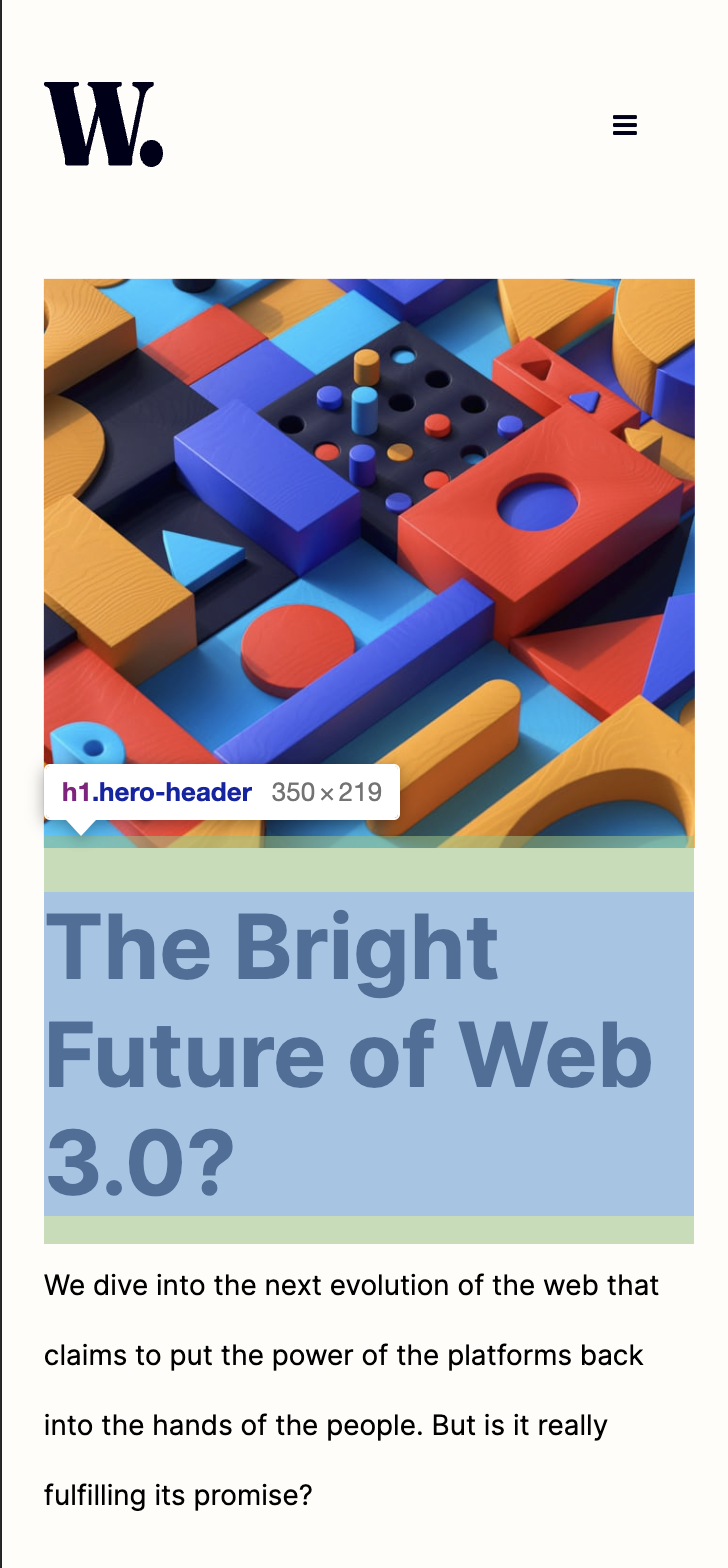
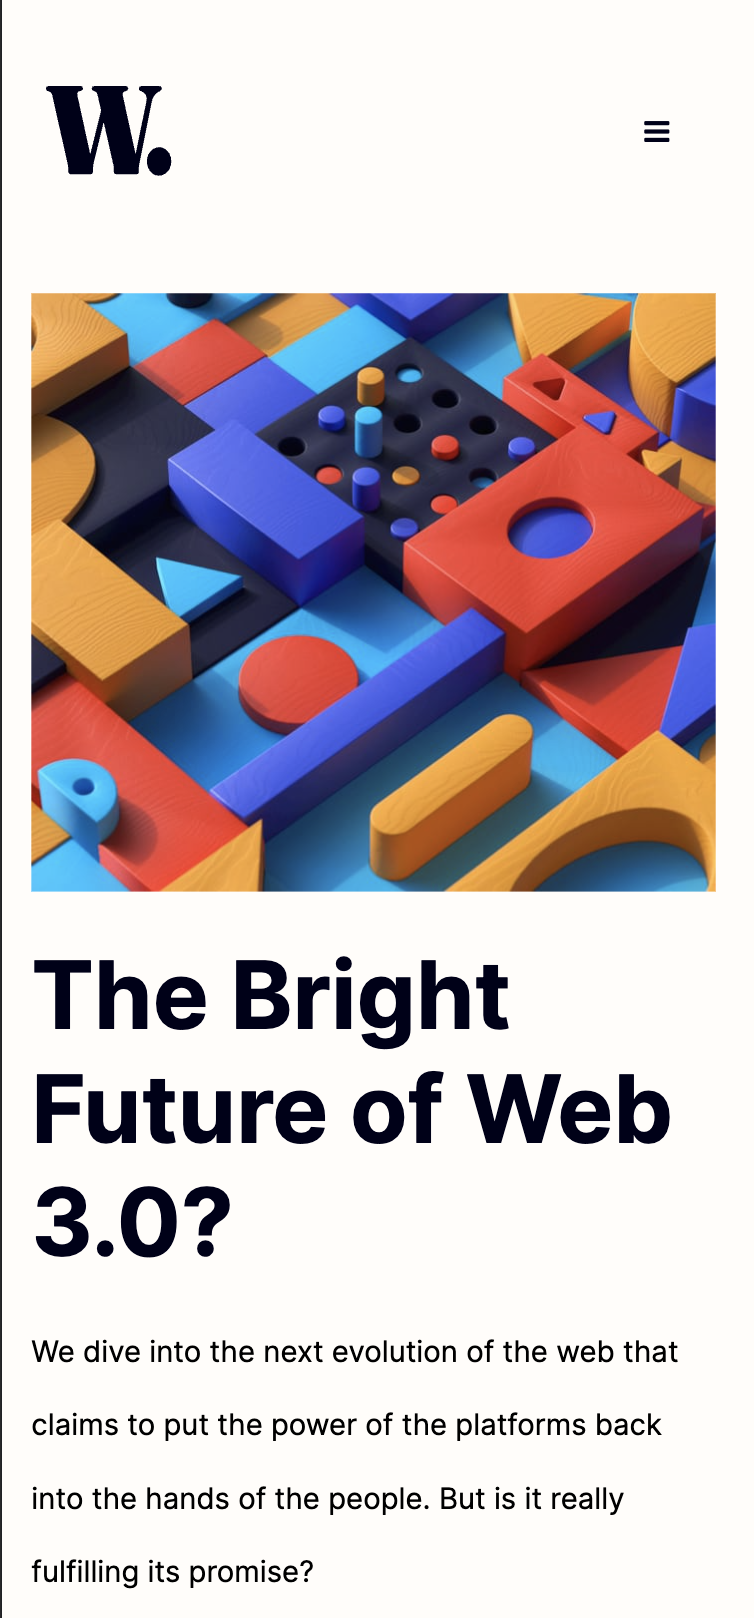
corrected image, modified styles

diff --git a/styles.css b/styles.css
@@ -255,6 +255,12 @@ a:-webkit-any-link {
 
 @media screen and (max-width: 600px) {
 
+    html, body {
+        width: auto!important;
+        overflow-x: hidden!important;
+        overflow-y: scroll;
+    }
+
     .topnav {
         margin-left: 1.5rem;
         margin-top: 3rem;
@@ -263,10 +269,11 @@ a:-webkit-any-link {
 
     .hero-container {
         flex-direction: column;
-        margin: 1.5rem;
+        margin: 1rem;
     }
 
     .hero-grid {
+        grid-template-columns: 400px;
         grid-template-rows: 300px 200px 350px;
         grid-template-areas:
             "image"

diff --git a/README.md b/README.md
@@ -24,17 +24,17 @@ Users should be able to:
 
 ### Screenshot
 
-![desktop-1](./screenshot.jpg)
-![desktop-2](./screenshot.jpg)
-![mobile-1](./screenshot.jpg)
-![mobile-2](./screenshot.jpg)
-![mobile-3](./screenshot.jpg)
-![active-states](./screenshot.jpg)
+![desktop-1](./assets/readme/desktop.png)
+![desktop-2](./assets/readme/desktop2.png)
+![mobile-1](./assets/readme/mobile1.png)
+![mobile-2](./assets/readme/mobile2.png)
+![mobile-3](./assets/readme/mobile3.png)
+![active-states](./assets/readme/active-states.png)
 
 ### Links
 
 - Solution URL: [Github](https://github.com/mariabrock/frontendmentorio-news-hompage)
-- Live Site URL: [Github Pages](https://your-live-site-url.com)
+- Live Site URL: [Github Pages](https://mariabrock.github.io/frontendmentorio-news-hompage/)
 
 ## My process
 
